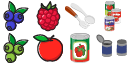
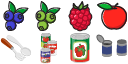
fixed image, randomizing it

diff --git a/final/game.js b/final/game.js
@@ -109,9 +109,11 @@ camera.setBounds(0,0, map.widthInPixels, map.heightInPixels);
 
 // Collectables
 
+berry_num = Phaser.Math.Between(0,2);
+console.log(berry_num);
 berry = this.physics.add.group({
   key: 'food',
-  frame: [0,0,0,0,0,0] ,
+  frame: [berry_num,berry_num,berry_num,berry_num,berry_num,berry_num] ,
   setXY:{
     x: 100,
     y: 2300,
